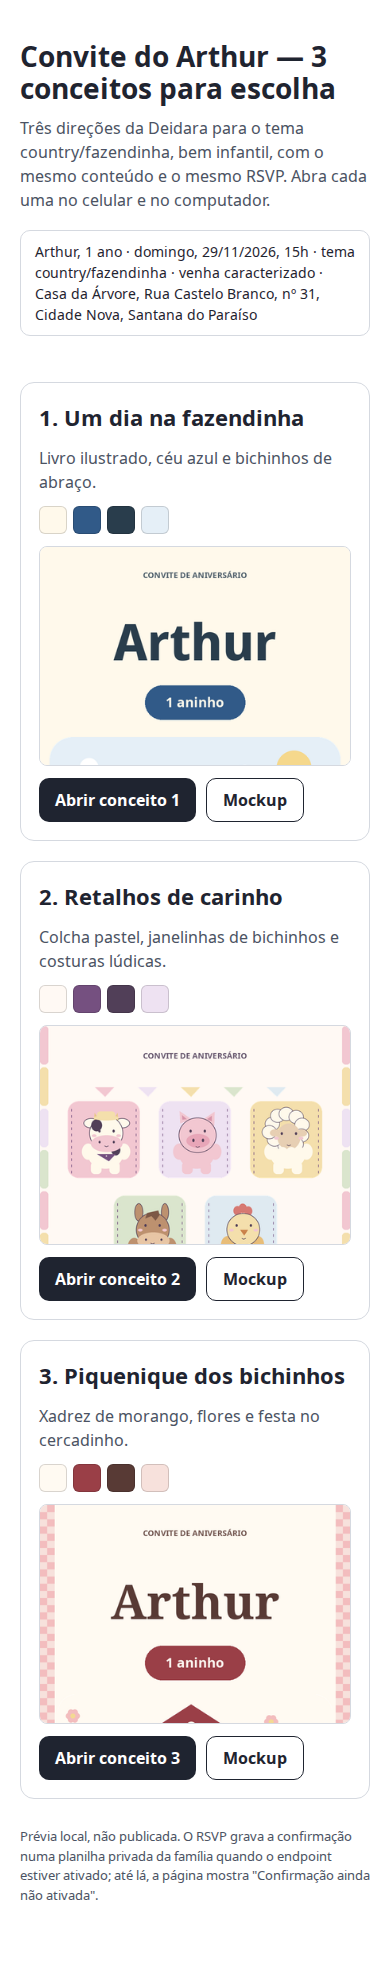
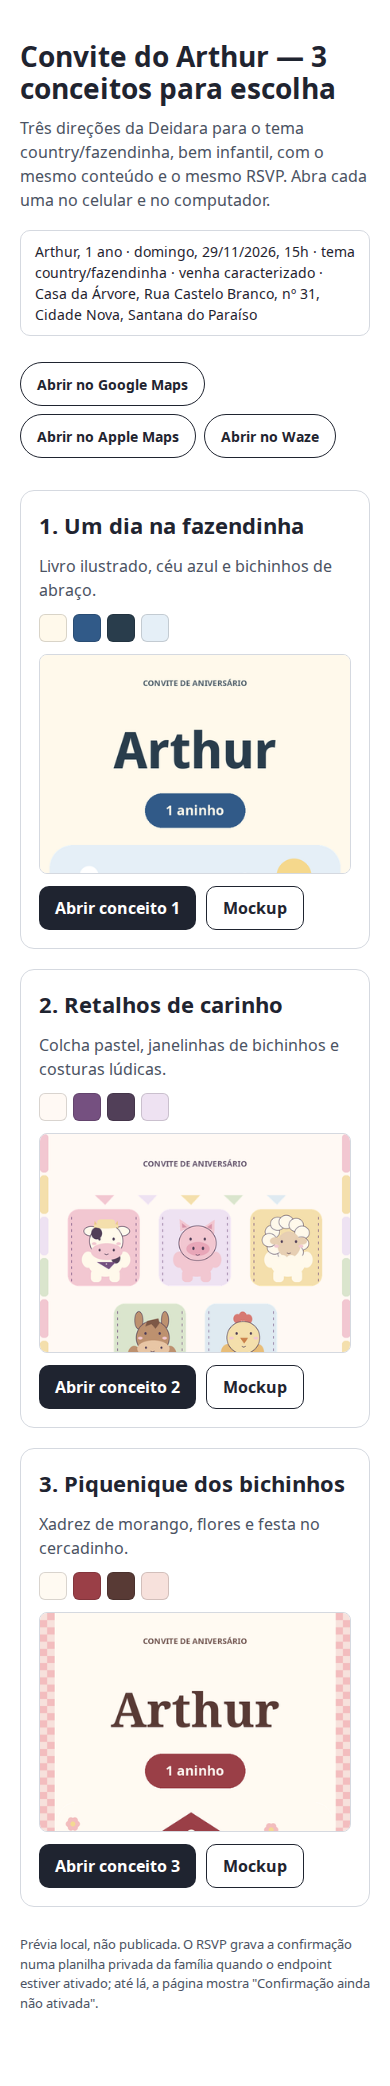
Botões de mapa: Google Maps, Apple Maps e Waze junto ao endereço
Pedido do Yan. Links oficiais de busca pelo endereço (sem coordenadas):
google.com/maps/search/?api=1&query=, maps.apple.com/?q=, waze.com/ul?q=&navigate=yes,
com 'Casa da Árvore, Rua Castelo Branco, 31, Cidade Nova, Santana do Paraíso - MG'.
Nova aba com noopener noreferrer, aria-label descritivo, alvo >= 44 px, no estilo
de cada conceito; também no comparativo. E2E: 3 botões nas 3 páginas e no
comparativo, em 390/1440, domínio oficial e endereço decodificado exatos, sem
requisição externa no carregamento (54/54). Prints regenerados.

Changed region(s): [[0.0308, 0.0, 0.9538, 0.9869], [0.8615, 0.4934, 0.9231, 0.6476], [0.0308, 0.185, 0.0615, 0.2159]]

diff --git a/index.html b/index.html
@@ -26,6 +26,8 @@
   .abrir{background:#1F2430;color:#FFFFFF}
   .mockup{border:1px solid #1F2430;color:#1F2430}
   :focus-visible{outline-color:#1F2430}
+  .mapas{display:flex;flex-wrap:wrap;gap:8px;margin:12px 0 0}
+  .mapa{display:inline-flex;align-items:center;min-height:44px;padding:0 16px;border:1px solid #1F2430;border-radius:999px;color:#1F2430;font-weight:700;font-size:14px;text-decoration:none}
   .nota{color:#4B5363;font-size:13px;margin-top:28px}
   @media (min-width:900px){.grade{grid-template-columns:repeat(3,1fr)}}
 </style>
@@ -35,6 +37,7 @@
   <h1>Convite do Arthur — 3 conceitos para escolha</h1>
   <p class="intro">Três direções da Deidara para o tema country/fazendinha, bem infantil, com o mesmo conteúdo e o mesmo RSVP. Abra cada uma no celular e no computador.</p>
   <p class="dados">Arthur, 1 ano · domingo, 29/11/2026, 15h · tema country/fazendinha · venha caracterizado · Casa da Árvore, Rua Castelo Branco, nº 31, Cidade Nova, Santana do Paraíso</p>
+  <p class="mapas" data-mapas><a class="mapa" data-mapa="google" href="https://www.google.com/maps/search/?api=1&amp;query=Casa%20da%20%C3%81rvore%2C%20Rua%20Castelo%20Branco%2C%2031%2C%20Cidade%20Nova%2C%20Santana%20do%20Para%C3%ADso%20-%20MG" target="_blank" rel="noopener noreferrer" aria-label="Abrir o endereço da festa no Google Maps (abre em nova aba)">Abrir no Google Maps</a><a class="mapa" data-mapa="apple" href="https://maps.apple.com/?q=Casa%20da%20%C3%81rvore%2C%20Rua%20Castelo%20Branco%2C%2031%2C%20Cidade%20Nova%2C%20Santana%20do%20Para%C3%ADso%20-%20MG" target="_blank" rel="noopener noreferrer" aria-label="Abrir o endereço da festa no Apple Maps (abre em nova aba)">Abrir no Apple Maps</a><a class="mapa" data-mapa="waze" href="https://waze.com/ul?q=Casa%20da%20%C3%81rvore%2C%20Rua%20Castelo%20Branco%2C%2031%2C%20Cidade%20Nova%2C%20Santana%20do%20Para%C3%ADso%20-%20MG&amp;navigate=yes" target="_blank" rel="noopener noreferrer" aria-label="Abrir o endereço da festa no Waze (abre em nova aba)">Abrir no Waze</a></p>
   <ul class="grade">
     <li class="cartao">
       <h2>1. Um dia na fazendinha</h2>

diff --git a/conceito-1/index.html b/conceito-1/index.html
@@ -40,6 +40,7 @@
         <p class="rotulo">Local</p>
         <p class="local">Casa da Árvore</p>
         <p class="endereco">Rua Castelo Branco, nº 31<br>Cidade Nova, Santana do Paraíso</p>
+        <p class="mapas" data-mapas><a class="mapa" data-mapa="google" href="https://www.google.com/maps/search/?api=1&amp;query=Casa%20da%20%C3%81rvore%2C%20Rua%20Castelo%20Branco%2C%2031%2C%20Cidade%20Nova%2C%20Santana%20do%20Para%C3%ADso%20-%20MG" target="_blank" rel="noopener noreferrer" aria-label="Abrir o endereço da festa no Google Maps (abre em nova aba)">Abrir no Google Maps</a><a class="mapa" data-mapa="apple" href="https://maps.apple.com/?q=Casa%20da%20%C3%81rvore%2C%20Rua%20Castelo%20Branco%2C%2031%2C%20Cidade%20Nova%2C%20Santana%20do%20Para%C3%ADso%20-%20MG" target="_blank" rel="noopener noreferrer" aria-label="Abrir o endereço da festa no Apple Maps (abre em nova aba)">Abrir no Apple Maps</a><a class="mapa" data-mapa="waze" href="https://waze.com/ul?q=Casa%20da%20%C3%81rvore%2C%20Rua%20Castelo%20Branco%2C%2031%2C%20Cidade%20Nova%2C%20Santana%20do%20Para%C3%ADso%20-%20MG&amp;navigate=yes" target="_blank" rel="noopener noreferrer" aria-label="Abrir o endereço da festa no Waze (abre em nova aba)">Abrir no Waze</a></p>
       </div>
     </section>
 

diff --git a/conceito-2/index.html b/conceito-2/index.html
@@ -39,6 +39,7 @@
         <p class="rotulo">Local</p>
         <p class="local">Casa da Árvore</p>
         <p class="endereco">Rua Castelo Branco, nº 31<br>Cidade Nova, Santana do Paraíso</p>
+        <p class="mapas" data-mapas><a class="mapa" data-mapa="google" href="https://www.google.com/maps/search/?api=1&amp;query=Casa%20da%20%C3%81rvore%2C%20Rua%20Castelo%20Branco%2C%2031%2C%20Cidade%20Nova%2C%20Santana%20do%20Para%C3%ADso%20-%20MG" target="_blank" rel="noopener noreferrer" aria-label="Abrir o endereço da festa no Google Maps (abre em nova aba)">Abrir no Google Maps</a><a class="mapa" data-mapa="apple" href="https://maps.apple.com/?q=Casa%20da%20%C3%81rvore%2C%20Rua%20Castelo%20Branco%2C%2031%2C%20Cidade%20Nova%2C%20Santana%20do%20Para%C3%ADso%20-%20MG" target="_blank" rel="noopener noreferrer" aria-label="Abrir o endereço da festa no Apple Maps (abre em nova aba)">Abrir no Apple Maps</a><a class="mapa" data-mapa="waze" href="https://waze.com/ul?q=Casa%20da%20%C3%81rvore%2C%20Rua%20Castelo%20Branco%2C%2031%2C%20Cidade%20Nova%2C%20Santana%20do%20Para%C3%ADso%20-%20MG&amp;navigate=yes" target="_blank" rel="noopener noreferrer" aria-label="Abrir o endereço da festa no Waze (abre em nova aba)">Abrir no Waze</a></p>
       </div>
     </section>
 

diff --git a/conceito-3/index.html b/conceito-3/index.html
@@ -43,6 +43,7 @@
         <p class="rotulo">Local</p>
         <p class="local">Casa da Árvore</p>
         <p class="endereco">Rua Castelo Branco, nº 31<br>Cidade Nova, Santana do Paraíso</p>
+        <p class="mapas" data-mapas><a class="mapa" data-mapa="google" href="https://www.google.com/maps/search/?api=1&amp;query=Casa%20da%20%C3%81rvore%2C%20Rua%20Castelo%20Branco%2C%2031%2C%20Cidade%20Nova%2C%20Santana%20do%20Para%C3%ADso%20-%20MG" target="_blank" rel="noopener noreferrer" aria-label="Abrir o endereço da festa no Google Maps (abre em nova aba)">Abrir no Google Maps</a><a class="mapa" data-mapa="apple" href="https://maps.apple.com/?q=Casa%20da%20%C3%81rvore%2C%20Rua%20Castelo%20Branco%2C%2031%2C%20Cidade%20Nova%2C%20Santana%20do%20Para%C3%ADso%20-%20MG" target="_blank" rel="noopener noreferrer" aria-label="Abrir o endereço da festa no Apple Maps (abre em nova aba)">Abrir no Apple Maps</a><a class="mapa" data-mapa="waze" href="https://waze.com/ul?q=Casa%20da%20%C3%81rvore%2C%20Rua%20Castelo%20Branco%2C%2031%2C%20Cidade%20Nova%2C%20Santana%20do%20Para%C3%ADso%20-%20MG&amp;navigate=yes" target="_blank" rel="noopener noreferrer" aria-label="Abrir o endereço da festa no Waze (abre em nova aba)">Abrir no Waze</a></p>
       </div>
     </section>
 

diff --git a/modelos/conceito-1.html b/modelos/conceito-1.html
@@ -39,6 +39,7 @@
         <p class="rotulo">Local</p>
         <p class="local">Casa da Árvore</p>
         <p class="endereco">Rua Castelo Branco, nº 31<br>Cidade Nova, Santana do Paraíso</p>
+        <p class="mapas" data-mapas><a class="mapa" data-mapa="google" href="https://www.google.com/maps/search/?api=1&amp;query=Casa%20da%20%C3%81rvore%2C%20Rua%20Castelo%20Branco%2C%2031%2C%20Cidade%20Nova%2C%20Santana%20do%20Para%C3%ADso%20-%20MG" target="_blank" rel="noopener noreferrer" aria-label="Abrir o endereço da festa no Google Maps (abre em nova aba)">Abrir no Google Maps</a><a class="mapa" data-mapa="apple" href="https://maps.apple.com/?q=Casa%20da%20%C3%81rvore%2C%20Rua%20Castelo%20Branco%2C%2031%2C%20Cidade%20Nova%2C%20Santana%20do%20Para%C3%ADso%20-%20MG" target="_blank" rel="noopener noreferrer" aria-label="Abrir o endereço da festa no Apple Maps (abre em nova aba)">Abrir no Apple Maps</a><a class="mapa" data-mapa="waze" href="https://waze.com/ul?q=Casa%20da%20%C3%81rvore%2C%20Rua%20Castelo%20Branco%2C%2031%2C%20Cidade%20Nova%2C%20Santana%20do%20Para%C3%ADso%20-%20MG&amp;navigate=yes" target="_blank" rel="noopener noreferrer" aria-label="Abrir o endereço da festa no Waze (abre em nova aba)">Abrir no Waze</a></p>
       </div>
     </section>
 

diff --git a/modelos/conceito-2.html b/modelos/conceito-2.html
@@ -38,6 +38,7 @@
         <p class="rotulo">Local</p>
         <p class="local">Casa da Árvore</p>
         <p class="endereco">Rua Castelo Branco, nº 31<br>Cidade Nova, Santana do Paraíso</p>
+        <p class="mapas" data-mapas><a class="mapa" data-mapa="google" href="https://www.google.com/maps/search/?api=1&amp;query=Casa%20da%20%C3%81rvore%2C%20Rua%20Castelo%20Branco%2C%2031%2C%20Cidade%20Nova%2C%20Santana%20do%20Para%C3%ADso%20-%20MG" target="_blank" rel="noopener noreferrer" aria-label="Abrir o endereço da festa no Google Maps (abre em nova aba)">Abrir no Google Maps</a><a class="mapa" data-mapa="apple" href="https://maps.apple.com/?q=Casa%20da%20%C3%81rvore%2C%20Rua%20Castelo%20Branco%2C%2031%2C%20Cidade%20Nova%2C%20Santana%20do%20Para%C3%ADso%20-%20MG" target="_blank" rel="noopener noreferrer" aria-label="Abrir o endereço da festa no Apple Maps (abre em nova aba)">Abrir no Apple Maps</a><a class="mapa" data-mapa="waze" href="https://waze.com/ul?q=Casa%20da%20%C3%81rvore%2C%20Rua%20Castelo%20Branco%2C%2031%2C%20Cidade%20Nova%2C%20Santana%20do%20Para%C3%ADso%20-%20MG&amp;navigate=yes" target="_blank" rel="noopener noreferrer" aria-label="Abrir o endereço da festa no Waze (abre em nova aba)">Abrir no Waze</a></p>
       </div>
     </section>
 

diff --git a/modelos/conceito-3.html b/modelos/conceito-3.html
@@ -42,6 +42,7 @@
         <p class="rotulo">Local</p>
         <p class="local">Casa da Árvore</p>
         <p class="endereco">Rua Castelo Branco, nº 31<br>Cidade Nova, Santana do Paraíso</p>
+        <p class="mapas" data-mapas><a class="mapa" data-mapa="google" href="https://www.google.com/maps/search/?api=1&amp;query=Casa%20da%20%C3%81rvore%2C%20Rua%20Castelo%20Branco%2C%2031%2C%20Cidade%20Nova%2C%20Santana%20do%20Para%C3%ADso%20-%20MG" target="_blank" rel="noopener noreferrer" aria-label="Abrir o endereço da festa no Google Maps (abre em nova aba)">Abrir no Google Maps</a><a class="mapa" data-mapa="apple" href="https://maps.apple.com/?q=Casa%20da%20%C3%81rvore%2C%20Rua%20Castelo%20Branco%2C%2031%2C%20Cidade%20Nova%2C%20Santana%20do%20Para%C3%ADso%20-%20MG" target="_blank" rel="noopener noreferrer" aria-label="Abrir o endereço da festa no Apple Maps (abre em nova aba)">Abrir no Apple Maps</a><a class="mapa" data-mapa="waze" href="https://waze.com/ul?q=Casa%20da%20%C3%81rvore%2C%20Rua%20Castelo%20Branco%2C%2031%2C%20Cidade%20Nova%2C%20Santana%20do%20Para%C3%ADso%20-%20MG&amp;navigate=yes" target="_blank" rel="noopener noreferrer" aria-label="Abrir o endereço da festa no Waze (abre em nova aba)">Abrir no Waze</a></p>
       </div>
     </section>
 

diff --git a/comum/v2.css b/comum/v2.css
@@ -26,6 +26,11 @@ h1{font-family:var(--titulo);font-weight:700;font-size:clamp(68px,19vw,150px);li
 .info .local{font-weight:700;font-size:19px;margin-top:12px !important}
 .info .endereco{font-size:15px;line-height:1.45;margin-top:6px !important}
 
+/* Botões de mapa (busca pelo endereço; sem coordenadas) */
+.mapas{display:flex;flex-wrap:wrap;justify-content:center;gap:8px;margin:16px 0 0 !important}
+.mapa{display:inline-flex;align-items:center;justify-content:center;min-height:44px;padding:0 16px;border:1px solid var(--acento);border-radius:999px;background:var(--fundo);color:var(--texto);font-weight:700;font-size:14px;text-decoration:none;transition:background-color 120ms}
+.mapa:hover{background:var(--campo)}
+
 /* Tema */
 .tema{display:flex;align-items:center;gap:28px;margin:44px 6px 0}
 .tema .bicho{width:64px;flex:none}

diff --git a/README.md b/README.md
@@ -18,6 +18,8 @@ Páginas estáticas (HTML, CSS e JS, sem dependências externas) com os 3 concei
 
 Arthur, 1 ano ("1 aninho" na capa) · **domingo, 29/11/2026, 15h** · venha caracterizado: **country/fazendinha** · **Casa da Árvore — Rua Castelo Branco, nº 31, Cidade Nova, Santana do Paraíso** · sem foto.
 
+**Como chegar:** junto ao endereço há 3 botões, "Abrir no Google Maps", "Abrir no Apple Maps" e "Abrir no Waze". São links oficiais de **busca** pelo endereço "Casa da Árvore, Rua Castelo Branco, 31, Cidade Nova, Santana do Paraíso - MG", sem coordenadas, e abrem numa nova aba (`noopener noreferrer`).
+
 ## Prévia local
 
 ```
@@ -91,7 +93,7 @@ npm test                    # regras do RSVP (node --test)
 npm run test:e2e            # Playwright em 390 e 1440: dados, rede, RSVP (servidor simulado), teclado, reduced-motion, contraste; prints em prints/
 ```
 
-O e2e (53 testes) falha se a página fizer requisição para outra origem que não o endpoint **falso** configurado no teste. Esse endpoint é atendido por um servidor simulado. Em todos os cenários exige nenhum erro de console.
+O e2e (54 testes) falha se a página fizer requisição para outra origem que não o endpoint **falso** configurado no teste. Esse endpoint é atendido por um servidor simulado. Em todos os cenários exige nenhum erro de console.
 
 Cobre:
 - **Dados e páginas:** dados exatos, sem foto, sem rolagem horizontal.
